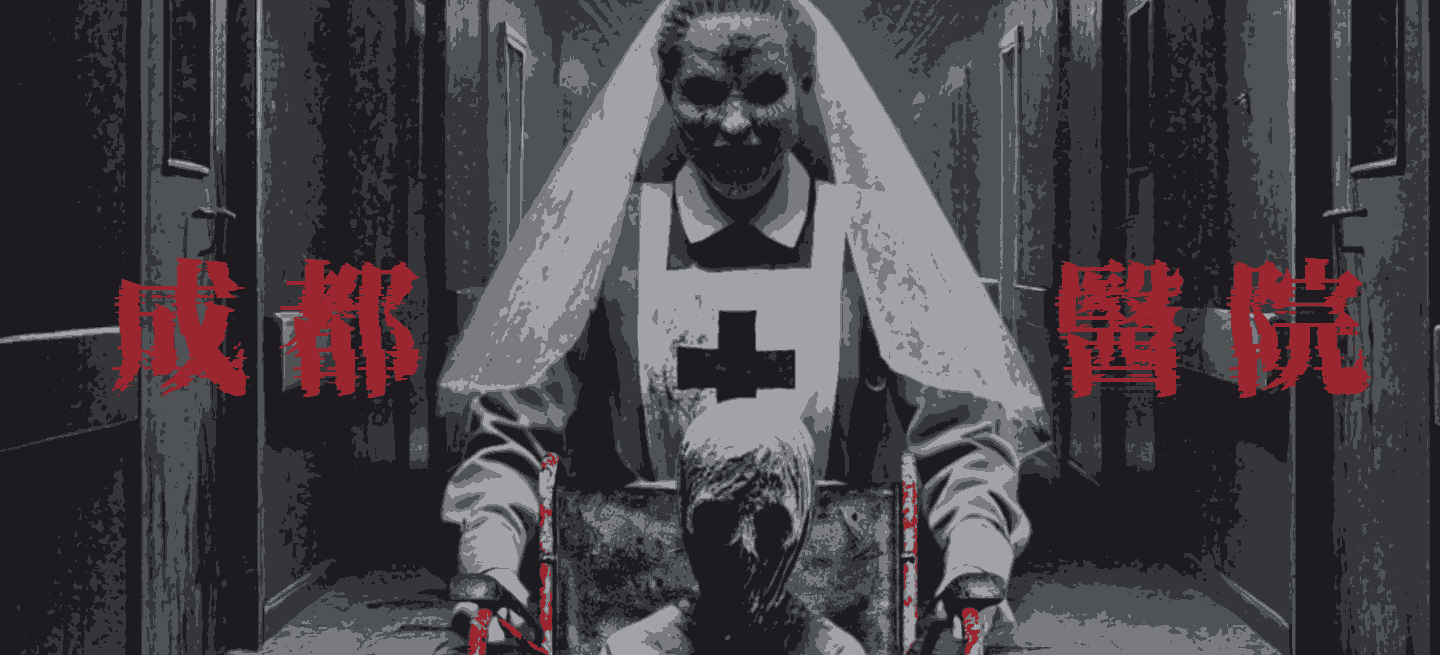
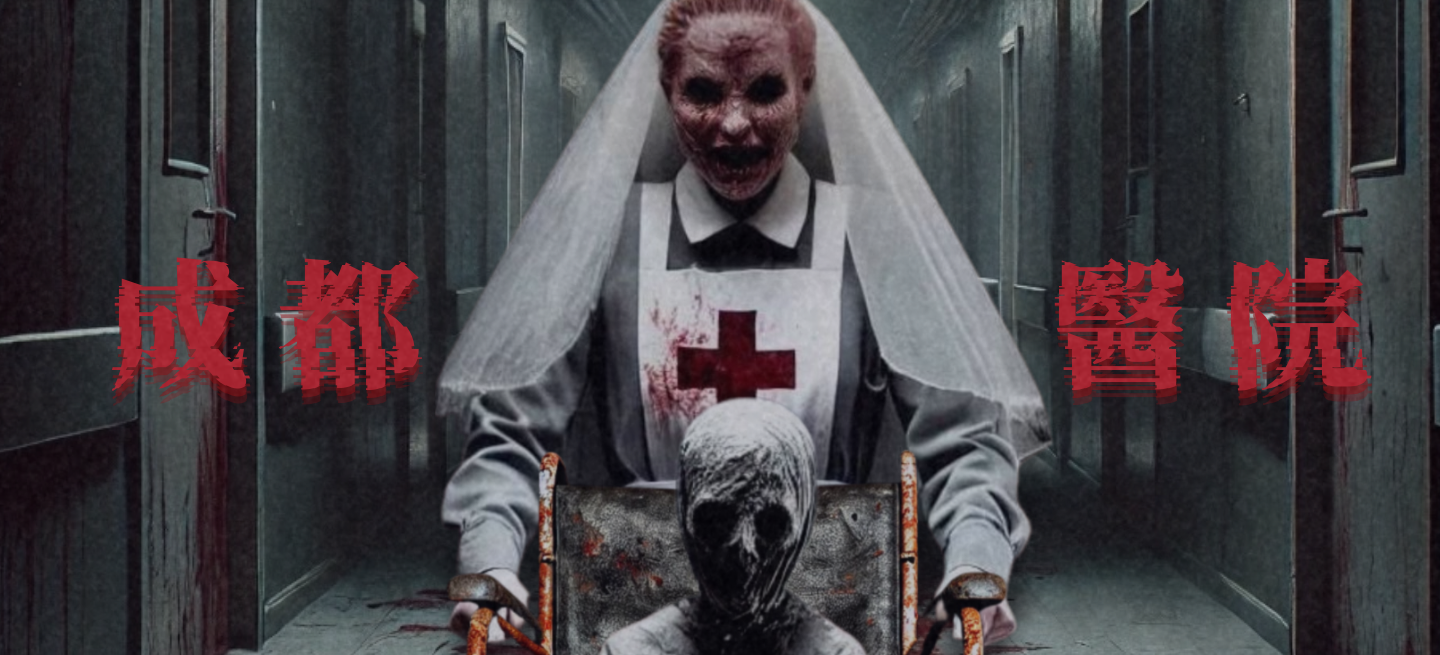
feat: 修復部分圖片壓縮導致失色

diff --git a/src/assets/css/style.css b/src/assets/css/style.css
@@ -800,7 +800,7 @@ ul#menuBar li:hover > ul {
   font-size: 18px;
 }
 .theme_icon.hospital p, .theme_icon.Lock p {
-  color: #FFE8BB;
+  color: #C8D1E0;
 }
 .theme_icon.time p, .theme_icon.dead p {
   color: #8F9191;

diff --git a/src/assets/sass/layout/_theme.scss b/src/assets/sass/layout/_theme.scss
@@ -328,7 +328,7 @@
     &.hospital,
     &.Lock {
         p {
-            color: map-get($colors, lightyellow);
+            color: #C8D1E0;
         }
     }
 
